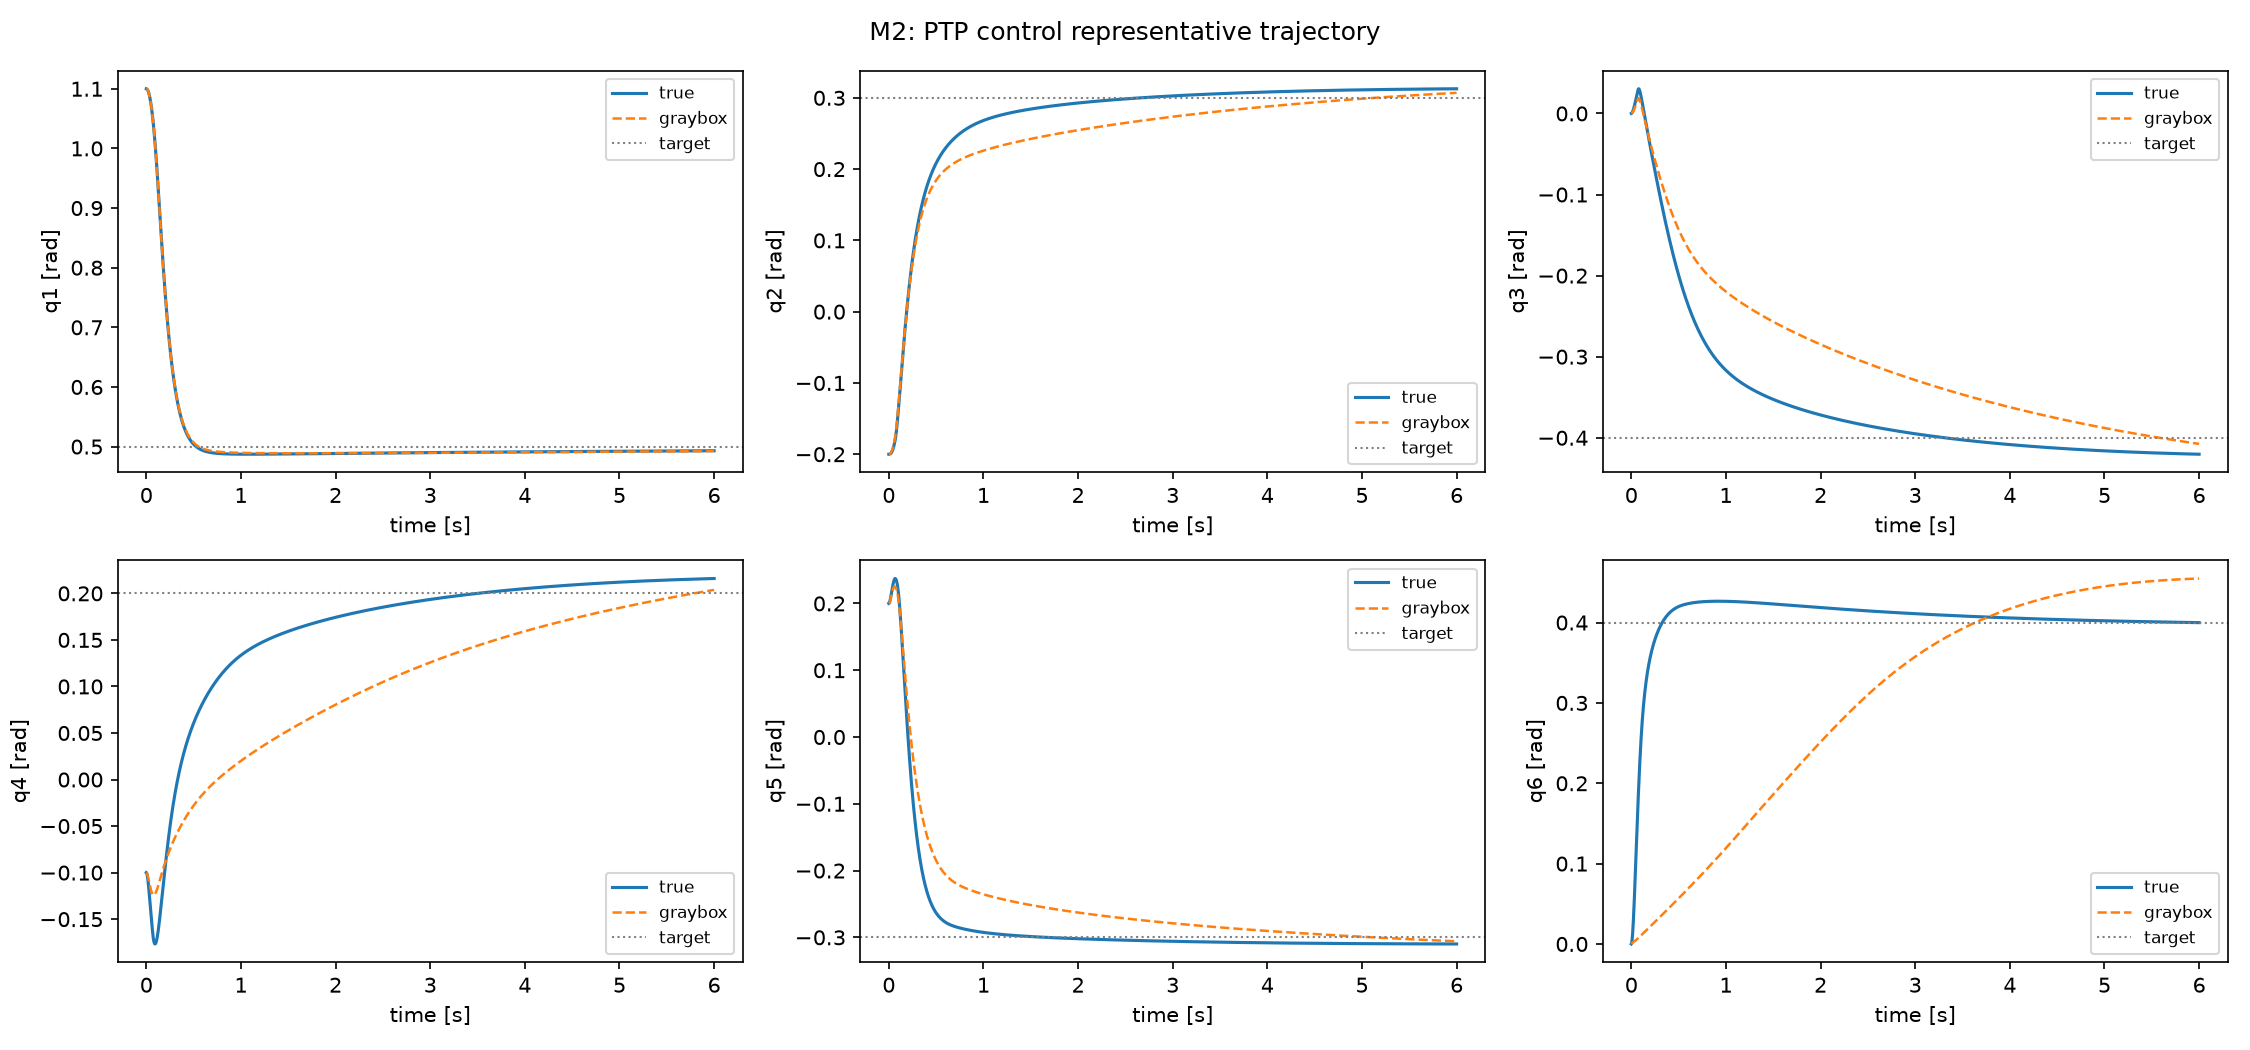
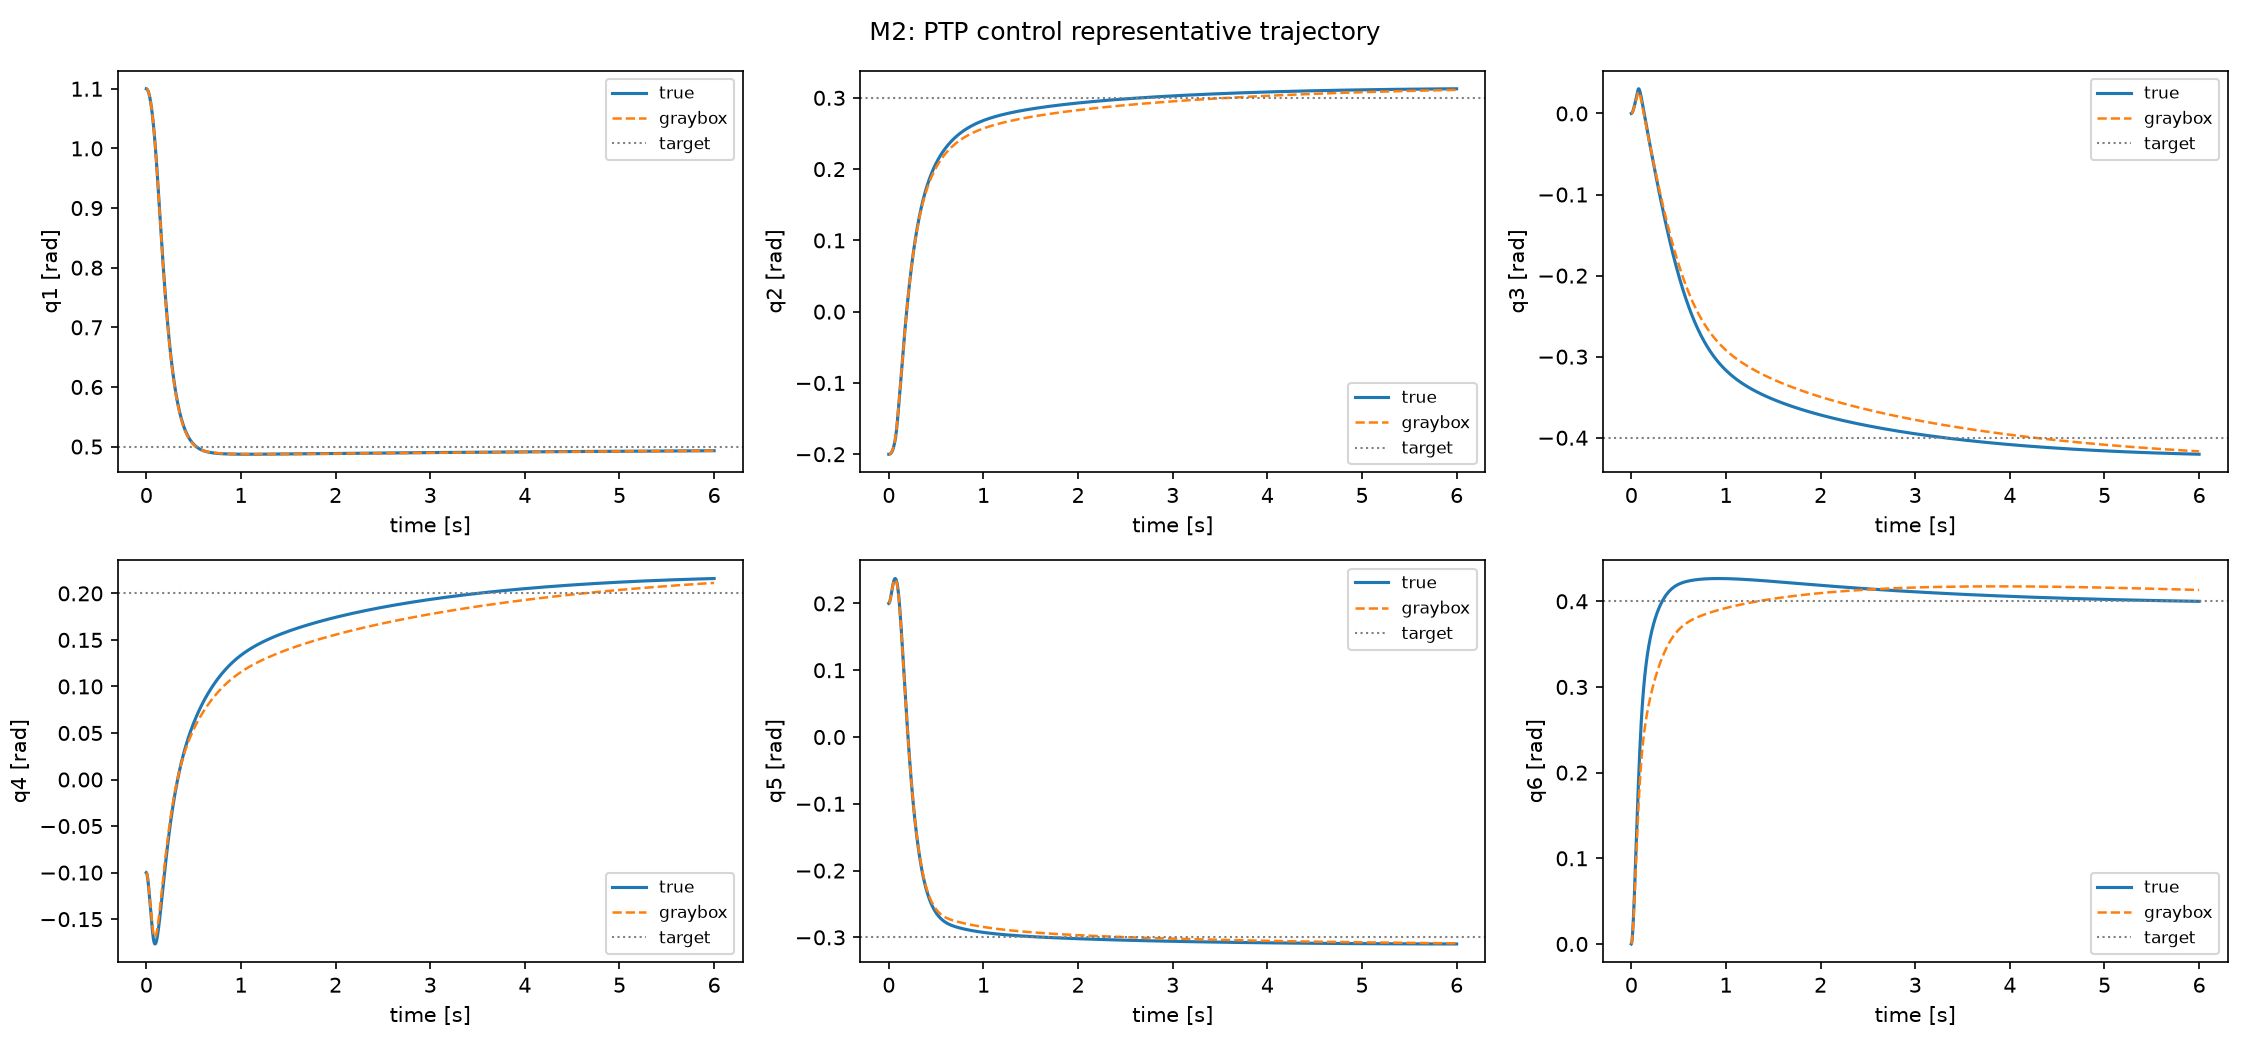
M2: コサイン減衰の学習率スケジュールで摩擦係数の最適化を改善
#6で低速軌道を混ぜて摩擦係数の識別可能性は改善したが、学習後の摩擦係数は
依然として真値から遠かった(特に手首関節)。学習損失を最小にする摩擦係数
(真値)を手動で設定すると学習損失がほぼ0になることを確認し、識別性の問題
ではなく最適化(学習率)の問題であることを特定した。

全パラメータがexp(0)=1.0から始まるのに対し手首関節の真値は0.01-0.05と
初期値から2桁近く離れており、LR=1e-3固定では105エポックでもそこまで
動き切らなかった。LR=0.05固定に上げると序盤は急速に改善するが、最適点
付近で減衰がないため発振・オーバーシュートしてしまうことを確認した。

コサイン減衰(1e-2→1e-4)の学習率スケジュールを導入することで、序盤の
速い収束と終盤の安定した微調整を両立した。

検証結果:
- 摩擦係数がほぼ真値まで収束(学習損失0.034→0.0014)
- 開ループRMSE: 大幅改善(0.2秒間で最大3.3→0.86-0.96)
- 計算トルク法PTP制御: 真値モデルとほぼ同水準まで改善
  (0.076-0.081rad→0.056-0.065rad)

Claude-Session: https://claude.ai/code/session_01Rvrf6mcbh1UrexApn66z2b

diff --git a/src/train.py b/src/train.py
@@ -16,7 +16,14 @@ N_TRAIN_TRAJ = 150
 N_VAL_TRAJ = 30
 SEED = 0
 BATCH_SIZE = 256
-LR = 1e-3
+# #8: LR=1e-3固定だと105エポック学習しても摩擦係数(特に手首関節)が初期値
+# (全関節1.0)付近から動き切らず、真の係数(手動で設定すると学習損失が
+# ほぼ0になることを確認済み)に到達しなかった。LR=0.05固定に上げると序盤は
+# 急速に改善する(20エポックで損失が半分未満になる)ものの、最適点付近で
+# 減衰がないため発振・オーバーシュートしてしまう。コサイン減衰で高LRから
+# 徐々に下げることで、序盤の速い収束と終盤の安定した微調整を両立する。
+LR = 1e-2
+LR_MIN = 1e-4
 GRAD_CLIP_NORM = 1.0
 
 # torch版RNEAはmass_matrix 1回でも内部で6リンク分のPythonループを2周する
@@ -61,6 +68,8 @@ def train(
 
     model = model_cls().to(device)
     optimizer = torch.optim.Adam(model.parameters(), lr=LR)
+    total_epochs = sum(n_epochs for _, n_epochs in curriculum)
+    scheduler = torch.optim.lr_scheduler.CosineAnnealingLR(optimizer, T_max=total_epochs, eta_min=LR_MIN)
 
     n_samples = x0_train_t.shape[0]
     global_epoch = 0
@@ -81,6 +90,7 @@ def train(
                 optimizer.step()
                 epoch_loss += loss.item() * idx.shape[0]
 
+            scheduler.step()
             global_epoch += 1
             if local_epoch % 10 == 0 or local_epoch == n_epochs - 1:
                 with torch.no_grad():

diff --git a/README.md b/README.md
@@ -60,11 +60,13 @@ M(q) q̈ = tau - bias(q,q̇) - friction(q̇)
 
 - **M1** (#1, #2): DHパラメータ+RNEAによる真値シミュレータ。エネルギー保存則を
   2秒間で相対誤差2.5e-5まで検証。
-- **M2** (#3, #6): ランダムトルク駆動のデータセット生成、グレーボックスサロゲートの学習、
-  計算トルク法PTP制御での真値/サロゲート比較。摩擦係数(粘性/クーロン)の識別精度を
-  上げるため、データの一部(25%)を重力補償+小摂動トルクで駆動し低速域(V_STRIBECK
-  付近)を探索するようにした。計算トルク法PTP制御は2/2 IC成功(最終追従誤差
-  0.076-0.081rad、しきい値0.2rad)。
+- **M2** (#3, #6, #8): ランダムトルク駆動のデータセット生成、グレーボックスサロゲートの
+  学習、計算トルク法PTP制御での真値/サロゲート比較。摩擦係数(粘性/クーロン)の識別
+  精度を上げるため、(a) データの一部(25%)を重力補償+小摂動トルクで駆動し低速域
+  (V_STRIBECK付近)を探索するようにし、(b) 学習率をコサイン減衰(1e-2→1e-4)に
+  切り替えた。最終的に摩擦係数はほぼ真値まで収束し(手首関節も含む)、計算トルク法
+  PTP制御は2/2 IC成功(最終追従誤差0.056-0.065rad、真値モデルとほぼ同水準、
+  しきい値0.2rad)。
 
 ## 教訓
 
@@ -103,10 +105,21 @@ M(q) q̈ = tau - bias(q,q̇) - friction(q̇)
    なってしまう。この状態では粘性・クーロンの寄与が観測上区別しにくく、係数が「両者の
    妥当な合成値」に収束して個別には識別できない(#5でK_MAXを伸ばしても改善しなかった
    のはこれが原因と考えられる)。データの一部を初期姿勢の重力補償トルク+小摂動で
-   駆動し、低速域に留まる軌道を混ぜることで改善する(#6)。ただしこの変更は開ループの
-   多段階ロールアウト誤差(RMSE)をむしろ悪化させた一方、計算トルク法PTP制御(閉ループ)
-   の追従誤差は改善した。閉ループ制御はフィードバックで開ループの誤差蓄積を継続的に
-   打ち消すため、開ループRMSEの多少の悪化は実用上のPTP性能には直結しないと考えられる。
+   駆動し、低速域に留まる軌道を混ぜることで改善する(#6)。この時点では開ループの
+   多段階ロールアウト誤差(RMSE)がむしろ悪化した(下記5で判明した学習率の問題により
+   摩擦係数の最適化自体が収束しきっていなかったため)。
+
+5. **学習率が低すぎると、係数パラメータが初期値から大きく離れた真値に到達する前に
+   実質的に停止してしまう**: #6の時点で「学習損失を最小にする摩擦係数(真値)を手動で
+   設定すると学習損失がほぼ0になる」ことを確認し、最適化自体が真の最小点まで到達
+   できていないことを特定した(識別性の問題ではなく純粋な最適化の問題)。全パラメータが
+   `exp(0)=1.0`から始まるのに対し手首関節の真値は0.01-0.05と初期値から2桁近く離れて
+   おり、LR=1e-3固定では105エポックでもそこまで動き切らなかった。LR=0.05固定に上げると
+   序盤は急速に改善するが、最適点付近で減衰がないため発振・オーバーシュートしてしまう。
+   コサイン減衰(1e-2→1e-4)で高LRから徐々に下げることで、序盤の速い収束と終盤の安定
+   した微調整を両立し、摩擦係数がほぼ真値まで収束した(学習損失0.034→0.0014)。この
+   結果、開ループRMSEも大幅に改善し(0.2秒間で最大3.3→0.86-0.96)、PTP制御の追従誤差も
+   真値モデルとほぼ同水準(0.056-0.065rad)まで改善した。
 
 ## セットアップ
 
